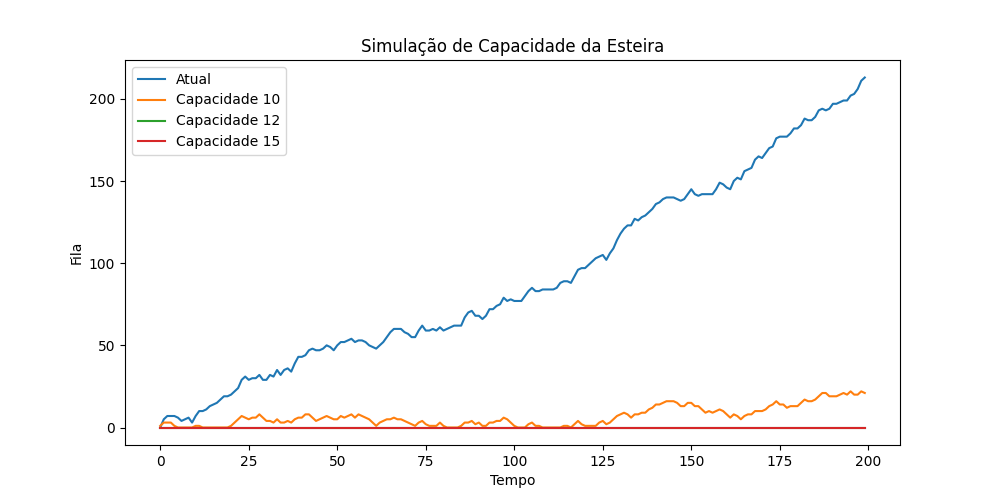
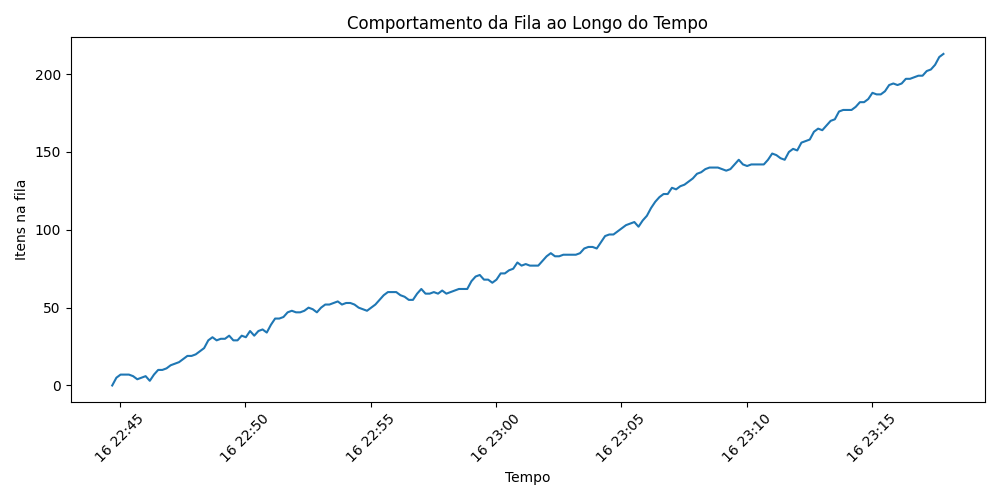
feat: adiciona métricas de fila e visualização

diff --git a/python/main.py b/python/main.py
@@ -1,0 +1,16 @@
+from analyze_data import load_data, basic_info, analyze_queue_metrics, plot_queue
+
+# caminho do dataset
+df = load_data("../data/conveyor_data.csv")
+
+# exploração inicial
+basic_info(df)
+
+# métricas
+metrics = analyze_queue_metrics(df)
+
+print("\nResumo das métricas:")
+print(metrics)
+
+# gráfico
+plot_queue(df)
